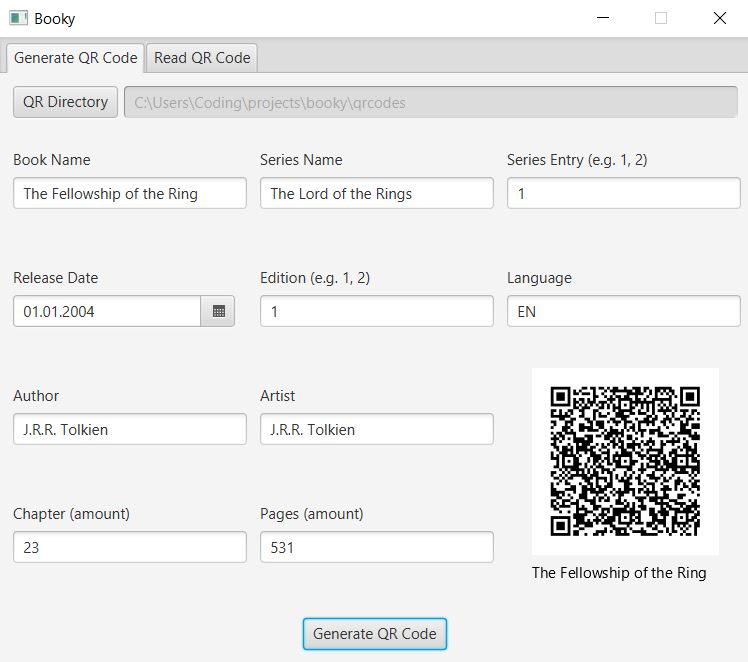
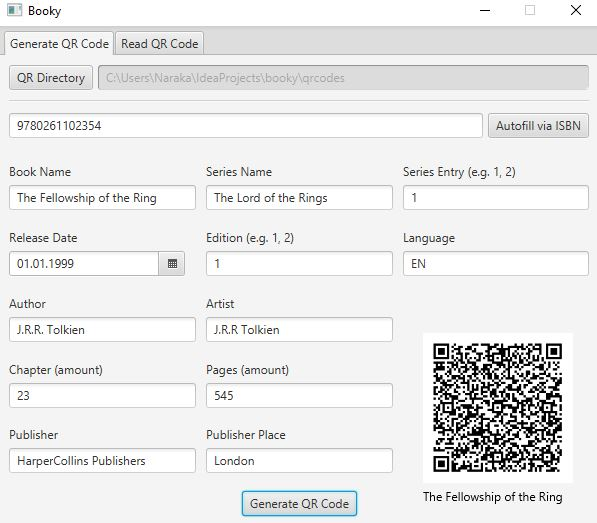
Add additional publisher fields and autofill them via ISBN.

diff --git a/src/main/java/gui/model/book/Book.java b/src/main/java/gui/model/book/Book.java
@@ -24,6 +24,10 @@ public final class Book {
 
     private int pageAmount;
 
+    private String publisher;
+
+    private String publishPlace;
+
     public String getBookName() {
         return bookName;
     }
@@ -104,12 +108,29 @@ public final class Book {
         this.pageAmount = pageAmount;
     }
 
+    public String getPublisher() {
+        return publisher;
+    }
+
+    public void setPublisher(String publisher) {
+        this.publisher = publisher;
+    }
+
+    public String getPublishPlace() {
+        return publishPlace;
+    }
+
+    public void setPublishPlace(String publishPlace) {
+        this.publishPlace = publishPlace;
+    }
+
     public String getFormattedText() {
         return "Book: " + bookName + " \n" +
                 "Series: " + seriesName + " \nEntry: " + seriesEntry + " \n" +
                 "Release: " + releaseDate + " \nEdition: " + edition + " \nLanguage: " + language + " \n" +
                 "Author: " + author + " \nArtist: " + artist + " \n" +
-                "Chapters: " + chapterAmount + " \nPages: " + pageAmount;
+                "Chapters: " + chapterAmount + " \nPages: " + pageAmount + "\n" +
+                "Publisher: " + publisher + "\n" + "Publish Place: " + publishPlace;
     }
 
     @Override
@@ -117,12 +138,16 @@ public final class Book {
         return "Book{" +
                 "bookName='" + bookName + '\'' +
                 ", seriesName='" + seriesName + '\'' +
+                ", seriesEntry=" + seriesEntry +
                 ", releaseDate=" + releaseDate +
-                ", edition='" + edition + '\'' +
+                ", edition=" + edition +
+                ", language='" + language + '\'' +
                 ", author='" + author + '\'' +
                 ", artist='" + artist + '\'' +
                 ", chapterAmount=" + chapterAmount +
                 ", pageAmount=" + pageAmount +
+                ", publisher='" + publisher + '\'' +
+                ", publishPlace='" + publishPlace + '\'' +
                 '}';
     }
 }

diff --git a/src/main/java/gui/view/generateqr/GenerateQRCodeViewController.java b/src/main/java/gui/view/generateqr/GenerateQRCodeViewController.java
@@ -16,9 +16,7 @@ import javafx.scene.text.Text;
 import javafx.util.converter.IntegerStringConverter;
 import javafx.util.converter.LongStringConverter;
 import service.openlibrary.OpenLibraryService;
-import service.openlibrary.model.Author;
-import service.openlibrary.model.OpenLibraryBook;
-import service.openlibrary.model.OpenLibraryBookData;
+import service.openlibrary.model.*;
 
 import java.io.File;
 import java.io.FileWriter;
@@ -95,6 +93,12 @@ public final class GenerateQRCodeViewController {
 
     @FXML
     private Text qrCodeText;
+
+    @FXML
+    private TextField publisher;
+
+    @FXML
+    private TextField publisherPlace;
 
     @FXML
     public void initialize() throws IOException {
@@ -199,6 +203,8 @@ public final class GenerateQRCodeViewController {
                 .setArtist(artist)
                 .setChapterAmount(chapterAmountFormatter)
                 .setPageAmount(pageAmountFormatter)
+                .setPublisher(publisher)
+                .setPublishPlace(publisherPlace)
                 .build();
 
         System.out.println("New Book: " + book);
@@ -231,6 +237,10 @@ public final class GenerateQRCodeViewController {
         pageAmountFormatter.setValue(openLibraryBookData.getNumberOfPages() != 0 ?
                 openLibraryBookData.getNumberOfPages() : 1);
         releaseDate.setValue(LocalDate.of(openLibraryBookData.getPublishDate(), 1, 1));
+        publisher.setText(String.join(", ", openLibraryBookData.getPublishers()
+                .stream().map(Publisher::getName).toList()));
+        publisherPlace.setText(String.join(", ", openLibraryBookData.getPublishPlaces()
+                .stream().map(PublishPlace::getName).toList()));
     }
 
 }

diff --git a/src/main/java/service/openlibrary/model/OpenLibraryBookData.java b/src/main/java/service/openlibrary/model/OpenLibraryBookData.java
@@ -27,6 +27,9 @@ public class OpenLibraryBookData implements Serializable {
 
     private List<Publisher> publishers;
 
+    @JsonProperty(value = "publish_places")
+    private List<PublishPlace> publishPlaces;
+
     @JsonProperty(value = "publish_date")
     private int publishDate;
 
@@ -68,6 +71,14 @@ public class OpenLibraryBookData implements Serializable {
 
     public void setPublishers(List<Publisher> publishers) {
         this.publishers = publishers;
+    }
+
+    public List<PublishPlace> getPublishPlaces() {
+        return publishPlaces;
+    }
+
+    public void setPublishPlaces(List<PublishPlace> publishPlaces) {
+        this.publishPlaces = publishPlaces;
     }
 
     public int getPublishDate() {

diff --git a/src/main/java/gui/model/book/BookCustomMapper.java b/src/main/java/gui/model/book/BookCustomMapper.java
@@ -69,4 +69,14 @@ public final class BookCustomMapper {
         book.setPageAmount(formatter.getValue());
         return this;
     }
+
+    public BookCustomMapper setPublisher(TextField node) {
+        book.setPublisher(node.getText());
+        return this;
+    }
+
+    public BookCustomMapper setPublishPlace(TextField node) {
+        book.setPublishPlace(node.getText());
+        return this;
+    }
 }

diff --git a/src/main/java/service/openlibrary/model/PublishPlace.java b/src/main/java/service/openlibrary/model/PublishPlace.java
@@ -1,0 +1,15 @@
+package service.openlibrary.model;
+
+public class PublishPlace {
+
+    private String name;
+
+    public String getName() {
+        return name;
+    }
+
+    public void setName(String name) {
+        this.name = name;
+    }
+
+}

diff --git a/README.md b/README.md
@@ -17,24 +17,21 @@ Currently stored data:
 - artist
 - chapters
 - pages
+- publisher
+- publisher place
+
+Currently available data to autofill via ISBN (from openlibrary.org):
+  - book name
+  - author(s)
+  - publisher
+  - publish place
+  - publish date
+  - pages
 
 TBD:
 
-- publisher
 - ISBN
-- ...and more
 
-### ToDo
-- fill in book data automatically by ISBN
-  - add additional UI fields (as mentioned above) to populate
-
-  - book data currently autofilled (data from openlibrary.org):
-    - book name
-    - author(s)
-    - publish date
-    - pages
-
-  
 
 
 ## Run (local)
